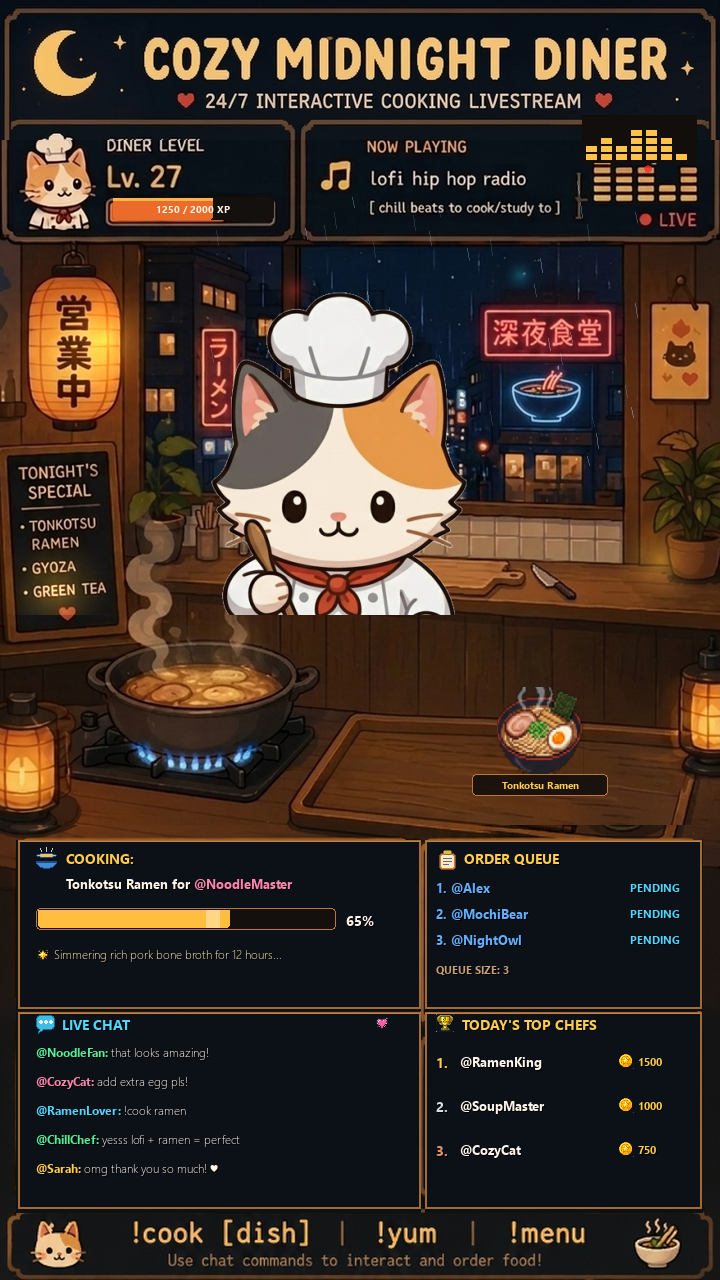
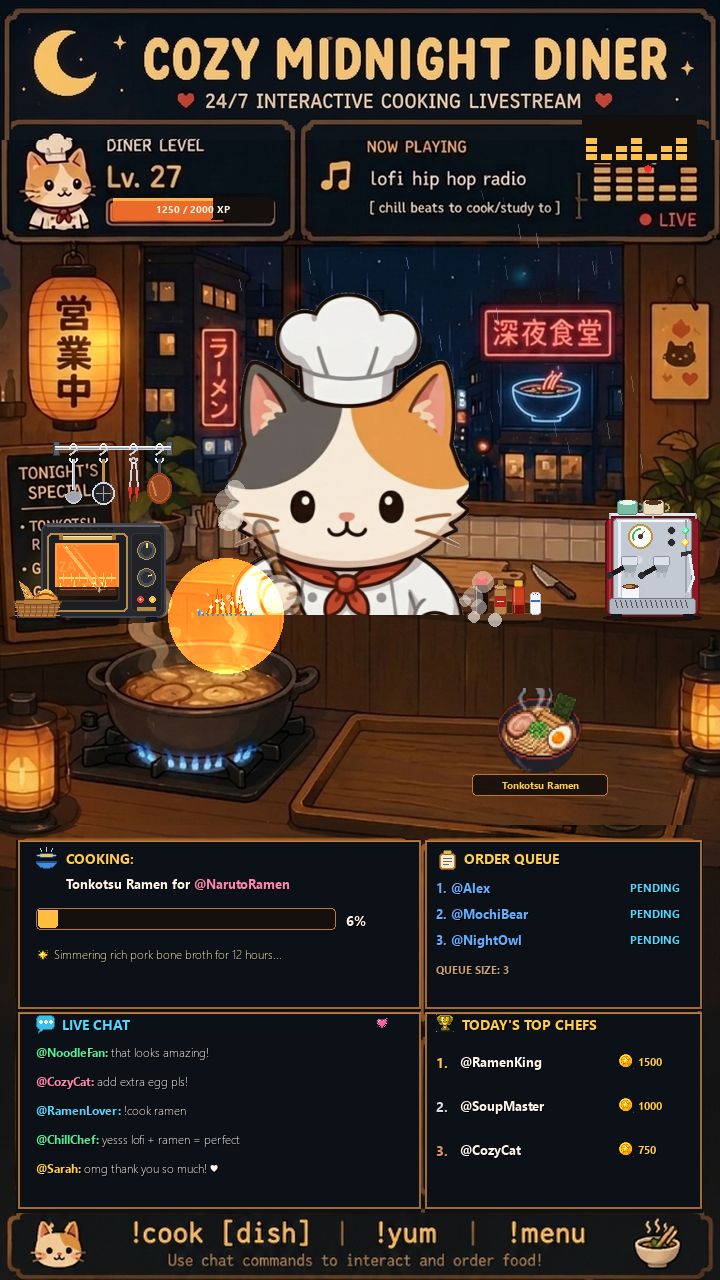
feat(decor): add retro oven, espresso coffee machine, kitchen props, and dynamic cooking fire effects

diff --git a/preview_animations.html b/preview_animations.html
@@ -123,10 +123,32 @@
     </div>
   </div>
 
-  <div class="scene-preview">
-    <h3 style="color: #ffcc4d; margin-top: 0;">📸 Toàn Cảnh Trong Game (Verified In-Game Scene)</h3>
-    <p style="color: #b4aaa0; font-size: 14px;">Bếp ga tiền cảnh che thân dưới mèo, mèo đứng trên sàn phía sau quầy nấu ăn.</p>
-    <img src="assets/verified_final_diner_frame.png" alt="In-Game Scene">
+  <div class="scene-preview" style="max-width: 720px; margin-bottom: 30px;">
+    <h3 style="color: #ffcc4d; margin-top: 0;">🍳 Không Gian Bếp Sinh Động & Hiệu Ứng Lửa Cháy (New Equipment & Fire VFX)</h3>
+    <p style="color: #b4aaa0; font-size: 14px; margin-bottom: 16px;">
+      Trang bị thêm <strong>Lò Nướng Bánh (Oven)</strong> rực lửa than, <strong>Máy Pha Cà Phê (Espresso Maker)</strong> cổ điển với đèn LED barista, <strong>Bộ Gia Vị Shoyu & Dầu Ớt</strong>, <strong>Giá Treo Dụng Cụ Inox</strong> và <strong>Hiệu Ứng Lửa Bếp Ga Nhảy Múa Động</strong>.
+    </p>
+
+    <div style="display: grid; grid-template-columns: 1fr 1fr; gap: 14px; margin-bottom: 16px;">
+      <div>
+        <h4 style="color: #ff913c; margin: 0 0 6px 0; font-size: 14px;">🔥 Nấu Ramen: Lửa Ga Xanh & Đỏ Bùng Cháy</h4>
+        <img src="assets/verified_render_cooking_ramen.png" alt="Ramen Cooking Fire" style="width: 100%; border-radius: 6px;">
+      </div>
+      <div>
+        <h4 style="color: #ff913c; margin: 0 0 6px 0; font-size: 14px;">🍕 Nướng Pizza: Lò Rực Lửa & Khói Thơm</h4>
+        <img src="assets/verified_render_cooking_pizza.png" alt="Pizza Baking Oven" style="width: 100%; border-radius: 6px;">
+      </div>
+    </div>
+
+    <div style="text-align: left; background: #0e1219; padding: 12px 16px; border-radius: 8px; border: 1px solid #2a3444; font-size: 13px; color: #d4c8be;">
+      <strong style="color: #50d7ff;">Các Chi Tiết Mới Bổ Sung:</strong>
+      <ul style="margin: 6px 0 0 16px; padding: 0;">
+        <li><strong>Lò Nướng Retro (Oven):</strong> Mặt kính trong suốt thấy rõ ngọn lửa than đỏ rực bên trong lò đang nướng bánh.</li>
+        <li><strong>Máy Pha Cà Phê Espresso:</strong> Vỏ đỏ ruby & inox bóng, 2 tay cầm portafilter, đồng hồ áp suất, 2 tách cà phê trên khay và đèn LED barista chớp nháy.</li>
+        <li><strong>Hiệu Ứng Lửa Cháy (Fire VFX):</strong> Vành lửa gas xanh + các lưỡi lửa đỏ cam vàng bốc cao liếm đáy nồi/chảo kèm quầng sáng tỏa ấm áp và tàn lửa (fire embers) bay lơ lửng.</li>
+        <li><strong>Gia Vị & Đồ Bếp Sinh Động:</strong> Chai xì dầu nắp đỏ Kikkoman, hũ ớt bột Shichimi, chai dầu ớt sa tế, giỏ mây bánh mì Pháp và giá treo muôi vá inox trên tường.</li>
+      </ul>
+    </div>
   </div>
 </body>
 </html>

diff --git a/game/renderer.py b/game/renderer.py
@@ -161,6 +161,21 @@ class DinerRenderer:
                     if has_display: img = img.convert_alpha()
                     self.ui_icons[key] = img
 
+        # 6. Kitchen Decor Props (Oven, Coffee Machine, Spices, Utensil Rack, Bread Basket)
+        decor_dir = os.path.join(os.path.dirname(BG_DIR), "decor")
+        def _load_decor(fname):
+            p = os.path.join(decor_dir, fname)
+            if os.path.exists(p):
+                img = pygame.image.load(p)
+                return img.convert_alpha() if has_display else img
+            return None
+
+        self.decor_oven = _load_decor("oven.png")
+        self.decor_coffee = _load_decor("coffee_machine.png")
+        self.decor_spices = _load_decor("spice_rack.png")
+        self.decor_utensils = _load_decor("utensils_rack.png")
+        self.decor_bread = _load_decor("bread_basket.png")
+
     def draw_text(self, surface, text, font, color, pos, shadow=True, shadow_color=(0, 0, 0, 210)):
         """Draws crisp text with subtle drop shadow for high readability."""
         x, y = pos
@@ -187,6 +202,10 @@ class DinerRenderer:
         # 4. Dynamic Window Rain Streaks
         particles.draw_rain(surface)
 
+        # 4b. Wall Utensil Rack (mounted on tiled wall above counter)
+        if getattr(self, "decor_utensils", None):
+            surface.blit(self.decor_utensils, (45, 435))
+
         # 5. Maneki-Neko (Lucky Cat) Waving Paw Animation (Layer 1)
         self._render_lucky_cat(surface)
 
@@ -196,6 +215,12 @@ class DinerRenderer:
         # 6b. Foreground Counter & Stove (Layer 3 & 4: stove & dining counter in front)
         if hasattr(self, "fg_counter") and self.fg_counter:
             surface.blit(self.fg_counter, (0, 615))
+
+        # 6c. Kitchen Appliances & Decor Props (Oven, Coffee Machine, Spices, Bread)
+        self._render_kitchen_decor(surface, state)
+
+        # 6d. Dynamic Fire Flames & Glowing Hearth (Stove Burner & Oven Fire)
+        self._render_fire_effects(surface, state, dt)
 
         # 7. Plated Food Display (Layer 5: on the wooden counter tray)
         self._render_counter_dish(surface, state)
@@ -323,6 +348,134 @@ class DinerRenderer:
         tw, _ = self.font_tiny.size(d_name)
         self.draw_text(surface, d_name, self.font_tiny, COLOR_TEXT_GOLD,
                        (counter_x - tw // 2, counter_y + 48), shadow=False)
+
+    def _render_kitchen_decor(self, surface, state):
+        """
+        Renders vibrant kitchen appliances and props:
+        - Retro Baking Oven on left counter
+        - Wicker Bread Basket beside oven
+        - Vintage Espresso Coffee Machine on right counter with barista LEDs
+        - Japanese Condiment & Spice Rack on counter shelf
+        """
+        # 1. Oven on left counter
+        if getattr(self, "decor_oven", None):
+            surface.blit(self.decor_oven, (35, 515))
+
+        # 2. Bread basket beside oven
+        if getattr(self, "decor_bread", None):
+            surface.blit(self.decor_bread, (5, 575))
+
+        # 3. Espresso coffee machine on right counter
+        if getattr(self, "decor_coffee", None):
+            surface.blit(self.decor_coffee, (595, 492))
+            # Dynamic Barista LED indicator lights
+            # Green power LED (ready)
+            green_pulse = int(180 + 75 * math.sin(self.anim_timer * 2.8))
+            g_surf = pygame.Surface((6, 6), pygame.SRCALPHA)
+            pygame.draw.circle(g_surf, (50, 240, 100, green_pulse), (3, 3), 3)
+            surface.blit(g_surf, (682, 527), special_flags=pygame.BLEND_ADD)
+            # Amber brew status LED
+            is_drink = state.current_dish and state.current_dish.get("cook_type") == "drink_shake"
+            amber_pulse = int(220 if is_drink else (120 + 60 * math.sin(self.anim_timer * 4.0)))
+            a_surf = pygame.Surface((6, 6), pygame.SRCALPHA)
+            pygame.draw.circle(a_surf, (255, 170, 40, amber_pulse), (3, 3), 3)
+            surface.blit(a_surf, (682, 539), special_flags=pygame.BLEND_ADD)
+
+        # 4. Japanese Spice Rack on counter shelf
+        if getattr(self, "decor_spices", None):
+            surface.blit(self.decor_spices, (460, 560))
+
+    def _render_fire_effects(self, surface, state, dt):
+        """
+        Renders dynamic animated fire flame effects:
+        1. Stove Gas Burner Fire: roaring blue/orange flames under pot during cooking,
+           and gentle blue pilot simmer flame when idle.
+        2. Oven Fire / Hearth Glow: glowing baking embers & flame tongues inside oven window.
+        """
+        is_cooking = state.current_dish is not None
+        cook_type = state.current_dish.get("cook_type", "simmer") if state.current_dish else None
+        t = self.anim_timer
+
+        # -------------------------------------------------------------
+        # A. STOVE GAS BURNER FIRE (Center x=226, y=612)
+        # -------------------------------------------------------------
+        flame_cx, flame_cy = 226, 612
+        intensity = 1.35 if (cook_type in ["sizzle", "pan_toss", "deepfry"]) else (1.0 if is_cooking else 0.4)
+
+        # 1. Warm Ambient Fire Glow (BLEND_ADD)
+        glow_radius = int(58 * intensity)
+        glow_surf = pygame.Surface((glow_radius * 2, glow_radius * 2), pygame.SRCALPHA)
+        pulse = 0.82 + 0.18 * math.sin(t * 15.0) * math.cos(t * 24.0)
+        max_alpha = int(55 * intensity * pulse)
+        for r in range(glow_radius, 0, -6):
+            alpha = int(max_alpha * (1.0 - r / glow_radius))
+            pygame.draw.circle(glow_surf, (255, 115, 25, alpha), (glow_radius, glow_radius), r)
+        surface.blit(glow_surf, (flame_cx - glow_radius, flame_cy - glow_radius + 4), special_flags=pygame.BLEND_ADD)
+
+        # 2. Blue Gas Flame Base Jets
+        num_jets = 11 if is_cooking else 7
+        jet_span = 24 if is_cooking else 14
+        for i in range(-num_jets // 2, num_jets // 2 + 1):
+            bx = flame_cx + int(i * (jet_span / (num_jets // 2)))
+            by = flame_cy + 3
+            bh = int((5 + 2.5 * math.sin(t * 18.0 + i * 1.3)) * min(1.2, intensity))
+            pygame.draw.line(surface, (35, 150, 255, 230), (bx, by), (bx, by - bh), 2)
+            pygame.draw.circle(surface, (180, 235, 255, 255), (bx, int(by - bh)), 1)
+
+        # 3. Active Dancing Orange/Yellow Flame Tongues (when cooking)
+        if is_cooking:
+            flame_tongues = [
+                (-18, 14), (-12, 20), (-6, 26), (0, 28), (6, 25), (12, 19), (18, 13)
+            ]
+            for idx, (ox, base_h) in enumerate(flame_tongues):
+                drift = math.sin(t * 12.0 + idx * 1.5) * 2.8
+                fx = flame_cx + ox + drift
+                fy = flame_cy + 1
+                h_tongue = base_h * intensity * (0.78 + 0.32 * math.sin(t * 21.0 + idx * 2.2) + 0.2 * math.cos(t * 31.0 + idx * 1.3))
+
+                # Outer fiery red-orange flame
+                p_outer = [
+                    (fx - 4, fy),
+                    (fx + 4, fy),
+                    (fx + math.sin(t * 16.0 + idx) * 2.5, fy - h_tongue)
+                ]
+                pygame.draw.polygon(surface, (255, 75, 15), p_outer)
+
+                # Inner vibrant golden flame
+                p_inner = [
+                    (fx - 2, fy),
+                    (fx + 2, fy),
+                    (fx + math.sin(t * 16.0 + idx) * 1.4, fy - h_tongue * 0.75)
+                ]
+                pygame.draw.polygon(surface, (255, 215, 55), p_inner)
+
+                # Incandescent hot white tip
+                tip_x = int(fx + math.sin(t * 16.0 + idx) * 0.9)
+                tip_y = int(fy - h_tongue * 0.48)
+                pygame.draw.circle(surface, (255, 255, 210), (tip_x, tip_y), 2)
+
+        # -------------------------------------------------------------
+        # B. OVEN HEARTH FIRE & EMBERS (Inside oven window at x=55..119, y=543..587)
+        # -------------------------------------------------------------
+        is_baking = is_cooking and (cook_type in ["bake", "sizzle"] or (state.current_dish and state.current_dish.get("key") in ["pizza", "pancakes", "waffles", "burger"]))
+        oven_intensity = 1.3 if is_baking else 0.8
+
+        # 1. Hearth glow inside oven window (BLEND_ADD)
+        o_glow = pygame.Surface((64, 44), pygame.SRCALPHA)
+        o_pulse = 0.8 + 0.2 * math.sin(t * 10.0) * math.cos(t * 16.0)
+        o_alpha = int(68 * oven_intensity * o_pulse)
+        o_glow.fill((255, 115, 30, o_alpha))
+        surface.blit(o_glow, (55, 543), special_flags=pygame.BLEND_ADD)
+
+        # 2. Dancing baking flame ribbons on bottom stone
+        for oi in range(5):
+            ofx = 62 + oi * 11 + math.sin(t * 11.0 + oi * 1.6) * 1.6
+            ofy = 586
+            ofh = int((7 + 4.5 * math.sin(t * 15.0 + oi * 2.1)) * oven_intensity)
+            # Outer flame
+            pygame.draw.polygon(surface, (255, 135, 35, 225), [(ofx - 3, ofy), (ofx + 3, ofy), (ofx, ofy - ofh)])
+            # Core bright flame
+            pygame.draw.polygon(surface, (255, 235, 95, 245), [(ofx - 1, ofy), (ofx + 1, ofy), (ofx, ofy - ofh * 0.6)])
 
     def _render_header(self, surface, state, dt):
         """Dynamic header overlays (Level XP bar, Audio Equalizer bars, LIVE dot)."""

diff --git a/game/particles.py b/game/particles.py
@@ -229,6 +229,47 @@ class ConfettiPiece:
         surface.blit(s, (int(self.x), int(self.y)))
 
 
+class FireEmberParticle:
+    """Rising glowing embers and heat sparks from cooking flames."""
+    def __init__(self, x, y):
+        self.x = x + random.uniform(-14, 14)
+        self.y = y + random.uniform(-4, 4)
+        angle = random.uniform(-math.pi * 0.85, -math.pi * 0.15)
+        speed = random.uniform(35, 90)
+        self.vx = math.cos(angle) * speed
+        self.vy = math.sin(angle) * speed
+        self.lifetime = random.uniform(0.4, 0.9)
+        self.age = 0.0
+        self.size = random.uniform(1.5, 3.2)
+        self.color_stages = [
+            (255, 250, 180),  # White-hot gold
+            (255, 170, 40),   # Vibrant orange
+            (230, 60, 20),    # Deep ember red
+        ]
+
+    def update(self, dt):
+        self.age += dt
+        self.x += self.vx * dt + math.sin(self.age * 9.0) * 0.6
+        self.y += self.vy * dt
+        self.vy -= 15 * dt  # slight thermal buoyancy
+        return self.age < self.lifetime
+
+    def draw(self, surface):
+        progress = self.age / self.lifetime
+        alpha = max(0, int(255 * (1.0 - progress)))
+        if progress < 0.35:
+            c = self.color_stages[0]
+        elif progress < 0.7:
+            c = self.color_stages[1]
+        else:
+            c = self.color_stages[2]
+            
+        r = int(max(1, self.size * (1.0 - progress * 0.5)))
+        s = pygame.Surface((r * 2 + 2, r * 2 + 2), pygame.SRCALPHA)
+        pygame.draw.circle(s, (*c, alpha), (r + 1, r + 1), r)
+        surface.blit(s, (int(self.x - r), int(self.y - r)), special_flags=pygame.BLEND_ADD)
+
+
 class ParticleManager:
     def __init__(self, heart_img=None, sparkle_img=None):
         self.heart_img = heart_img
@@ -239,10 +280,12 @@ class ParticleManager:
         self.sizzle_sparks = []
         self.broth_bubbles = []
         self.ice_sparkles = []
+        self.fire_embers = []
         self.confetti = []
         self.raindrops = [RainDrop() for _ in range(40)]
         self.steam_timer = 0.0
         self.counter_steam_timer = 0.0
+        self.coffee_steam_timer = 0.0
 
     def spawn_steam(self, x, y, size_range=(3, 8), color=(235, 230, 225)):
         self.steams.append(SteamParticle(x, y, size_range, color))
@@ -274,9 +317,22 @@ class ParticleManager:
             if current_cook_type in ["sizzle", "pan_toss", "deepfry"]:
                 for _ in range(random.randint(1, 2)):
                     self.sizzle_sparks.append(SizzleSpark(230, 560))
+                # Rising fire embers from sizzling stove
+                self.fire_embers.append(FireEmberParticle(226, 608))
+            elif current_cook_type in ["simmer", "bake", "steam_basket"]:
+                if random.random() < 0.65:
+                    self.fire_embers.append(FireEmberParticle(226, 610))
+                if current_cook_type == "bake":
+                    self.fire_embers.append(FireEmberParticle(85, 575))
             elif current_cook_type in ["drink_shake"]:
                 if random.random() < 0.6:
                     self.ice_sparkles.append(IceChillSparkle(230, 560))
+
+        # Delicate aromatic steam from coffee machine
+        self.coffee_steam_timer += dt
+        if self.coffee_steam_timer > 0.32:
+            self.coffee_steam_timer = 0.0
+            self.spawn_steam(630, 584, size_range=(2, 4), color=(245, 240, 235))
 
         # Gentle aroma steam from served counter dish
         if counter_dish_pos:
@@ -297,6 +353,7 @@ class ParticleManager:
         self.sizzle_sparks = [s for s in self.sizzle_sparks if s.update(dt)]
         self.broth_bubbles = [b for b in self.broth_bubbles if b.update(dt)]
         self.ice_sparkles = [i for i in self.ice_sparkles if i.update(dt)]
+        self.fire_embers = [e for e in self.fire_embers if e.update(dt)]
         self.confetti = [c for c in self.confetti if c.update(dt)]
 
     def draw_rain(self, surface):
@@ -312,6 +369,8 @@ class ParticleManager:
             sp.draw(surface)
         for ic in self.ice_sparkles:
             ic.draw(surface)
+        for fe in self.fire_embers:
+            fe.draw(surface)
 
     def draw_fx(self, surface):
         for h in self.hearts:

diff --git a/SPRITE_LAYER_PLAN.md b/SPRITE_LAYER_PLAN.md
@@ -84,17 +84,25 @@ graph TD
 ### Giai Đoạn 3: Cải Tiến Renderer `game/renderer.py` (HOÀN THÀNH ✅)
 - [x] Phân tầng Z-Index chuẩn xác:
   1. `Layer 0`: Background sạch `diner_bg_new.png` + Neon window pulse + Đèn lồng + Hạt mưa rơi.
-  2. `Layer 1`: Maneki-Neko (tượng đón khách).
+  2. `Layer 1`: Giá treo dụng cụ bếp inox (`utensils_rack.png` trên tường) & Maneki-Neko.
   3. `Layer 2`: Mèo Đầu Bếp (Animated action frame tại `pos = (200, 200)` trên sàn bếp).
   4. `Layer 3 & 4`: Bếp Ga & Quầy Ăn Tiền Cảnh (`fg_counter` tại `y = 615` che thân dưới, chân mèo đặt trên sàn tự nhiên).
-  5. `Layer 5`: Món Ăn Phục Vụ (`_render_counter_dish` đặt đúng lòng khay gỗ tại `x=540, y=730` cho cả 16 món).
-  6. `Layer 6`: Phụ kiện bàn ăn (Ly trà matcha, đũa thìa).
-  7. `Layer 7`: Hạt hơi nước bốc lên từ nồi & đĩa món ăn, tim bay, sao lấp lánh.
-  8. `Layer 8`: Dynamic HUD, Thanh XP, Live Visualizer, 4 UI Card và Command Bar.
+  5. `Layer 4b (Thiết Bị & Decor)`:
+     - **Lò nướng bánh retro (`oven.png` tại `x=35, y=515`):** Kính nhìn thấy lửa than đỏ rực bên trong lò.
+     - **Giỏ mây bánh mì Pháp (`bread_basket.png` tại `x=5, y=575`):** Baguette & Croissant thơm lừng cạnh lò.
+     - **Máy pha cà phê Espresso (`coffee_machine.png` tại `x=595, y=492`):** Inox & đỏ ruby, đồng hồ áp kế, vòi hơi, đèn LED barista.
+     - **Bộ hũ gia vị Shoyu & sa tế (`spice_rack.png` tại `x=460, y=560`):** Xì dầu nắp đỏ, ớt Shichimi, dầu ớt rayu.
+  6. `Layer 4c (Hiệu Ứng Lửa Cháy Dynamic Fire)`:
+     - Lửa bếp ga: Vành gas xanh + các lưỡi lửa đỏ cam vàng liếm đáy nồi/chảo + quầng sáng tỏa ấm (`BLEND_ADD`).
+     - Lửa trong lò nướng: Ngọn lửa than âm ỉ và bùng sáng khi nướng Pizza/Bake.
+  7. `Layer 5`: Món Ăn Phục Vụ (`_render_counter_dish` đặt đúng lòng khay gỗ tại `x=540, y=730` cho cả 16 món).
+  8. `Layer 6`: Phụ kiện bàn ăn (Ly trà matcha, đũa thìa).
+  9. `Layer 7`: Hạt hơi nước bốc lên từ nồi & cà phê, tàn lửa bay (`FireEmberParticle`), tim bay, sao lấp lánh.
+  10. `Layer 8`: Dynamic HUD, Thanh XP, Live Visualizer, 4 UI Card và Command Bar.
 
 ### Giai Đoạn 4: Kiểm Thử & Tinh Chỉnh QA (HOÀN THÀNH ✅)
 - [x] Chạy kiểm thử tự động `python -m unittest discover tests -v` đạt 9/9 tests PASS 100%.
 - [x] Chụp ảnh giả lập màn hình game thực tế:
-  - `assets/verified_final_diner_frame.png`: Khung cảnh hoàn chỉnh sạch sẽ, mèo khuấy nồi, bát mì ramen đặt ngay ngắn trong khay gỗ, không còn viền bẩn hay vệt lem nhem.
-  - Không còn hiện tượng mèo đứng lên bếp hay floating.
-  - Không còn lỗi "món nào cũng thành ramen".
+  - `assets/verified_render_cooking_ramen.png`: Nấu ramen với ngọn lửa bếp ga xanh đỏ bốc cao, hơi nước và tàn lửa.
+  - `assets/verified_render_cooking_pizza.png`: Nướng pizza với lò nướng rực lửa than, chảo lật đồ ăn, máy pha cà phê đỏ ruby.
+  - `assets/verified_final_diner_frame.png`: Toàn cảnh hoàn chỉnh ấm cúng, sinh động với đầy đủ thiết bị và ánh lửa.
